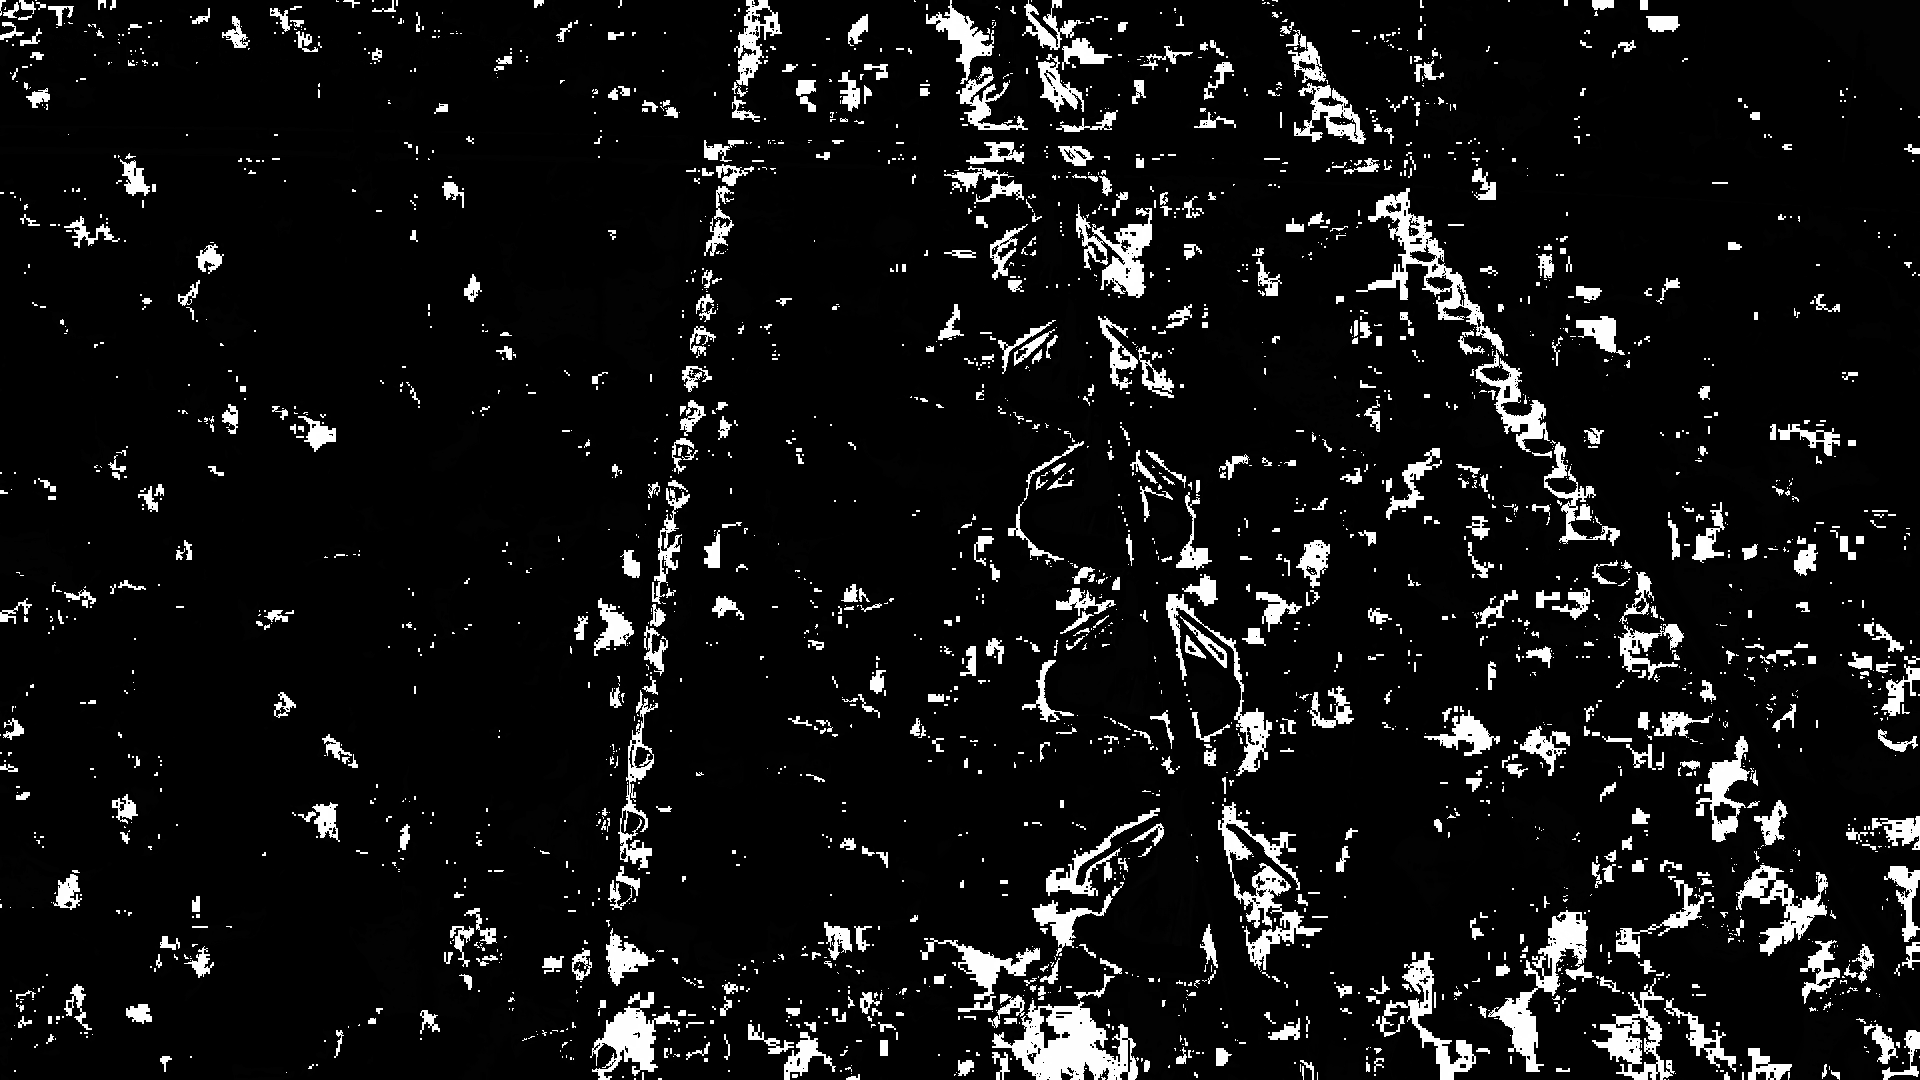
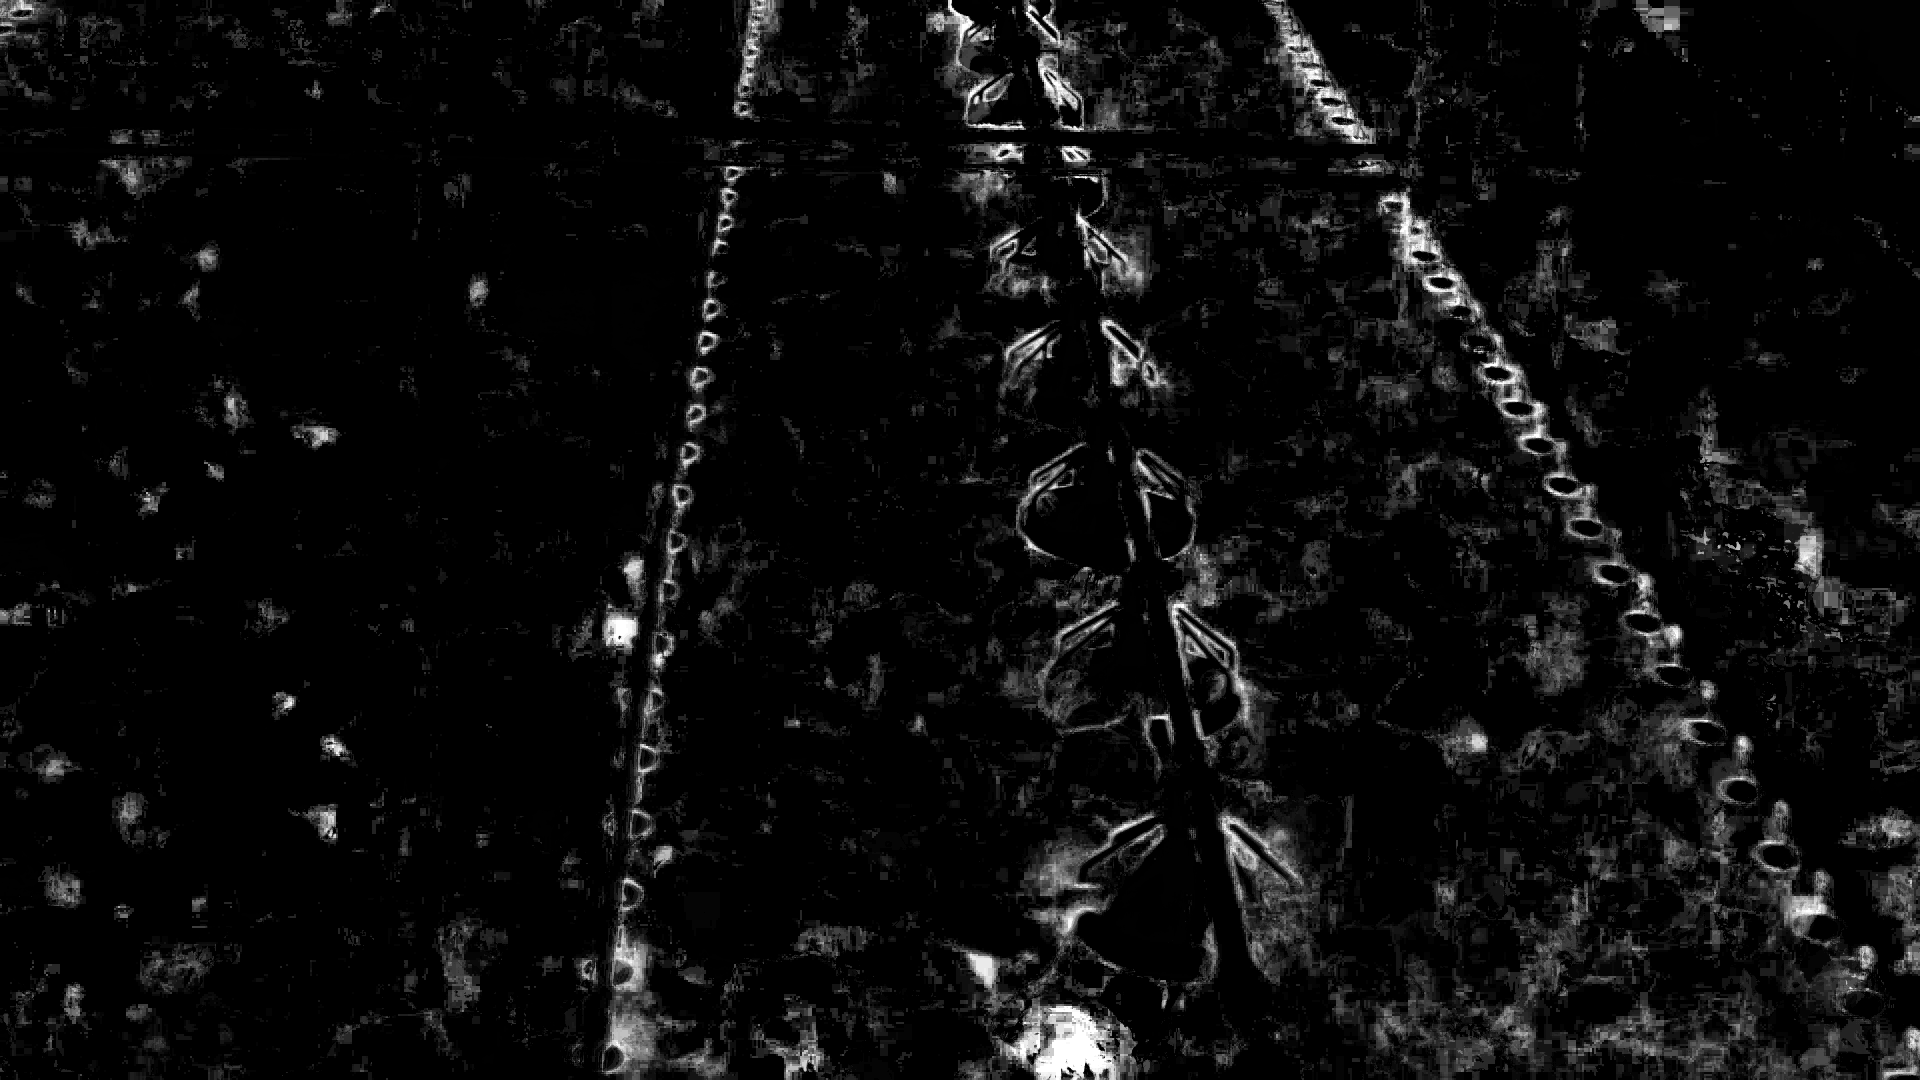
hsv 0.1 fix

diff --git a/OPENCVTEST/hsv.cpp b/OPENCVTEST/hsv.cpp
@@ -117,7 +117,7 @@ int main() {
     /* main cycle */
     cout << "enter frames numbers: ";
     int start_frame = 200;
-    int end_frame = 202;
+    int end_frame = 250;
     //cin >> do_frames;
 
     for (int i = 0; i < start_frame; ++i) {
@@ -166,17 +166,17 @@ int main() {
         //trackbarSmin(sliderSmax, 0);
         //trackbarVmin(sliderVmax, 0);
         //
-        //waitKey(100000);
+        waitKey(10);
     }
 
     cout << "end scan" << endl;
-    vector<vector<uint8_t>> sum(buff[0].rows, vector<uint8_t>(buff[0].cols));
-    cout << "vector complite" << endl;
+    vector<vector<uint64_t>> sum(buff[0].rows, vector<uint64_t>(buff[0].cols));
+    cout << "vector complete" << endl;
     for (int k = 0; k < buff.size(); ++k) {
         cout << "sum frame " << to_string(k) << endl;
         for (int i = 0; i < buff[k].rows; i++) {
             for (int j = 0; j < buff[k].cols; j++) {
-                sum[i][j] += buff[k].at<int8_t>(i, j);
+                sum[i][j] += (uint8_t)buff[k].at<int8_t>(i, j);
             }
         }
     }

diff --git a/OPENCVTEST/main.cpp b/OPENCVTEST/main.cpp
@@ -69,7 +69,7 @@ int main1()
     }
     cout << "end scan" << endl;
     vector<vector<int64_t>> sum(buff[0].rows, vector<int64_t>(buff[0].cols));
-    cout << "vector complite" << endl;
+    cout << "vector complete" << endl;
     for (int k = 0; k < buff.size(); ++k) {
         cout << "sum frame " << to_string(k) << endl;
         for (int i = 0; i < buff[k].rows; i++) {
